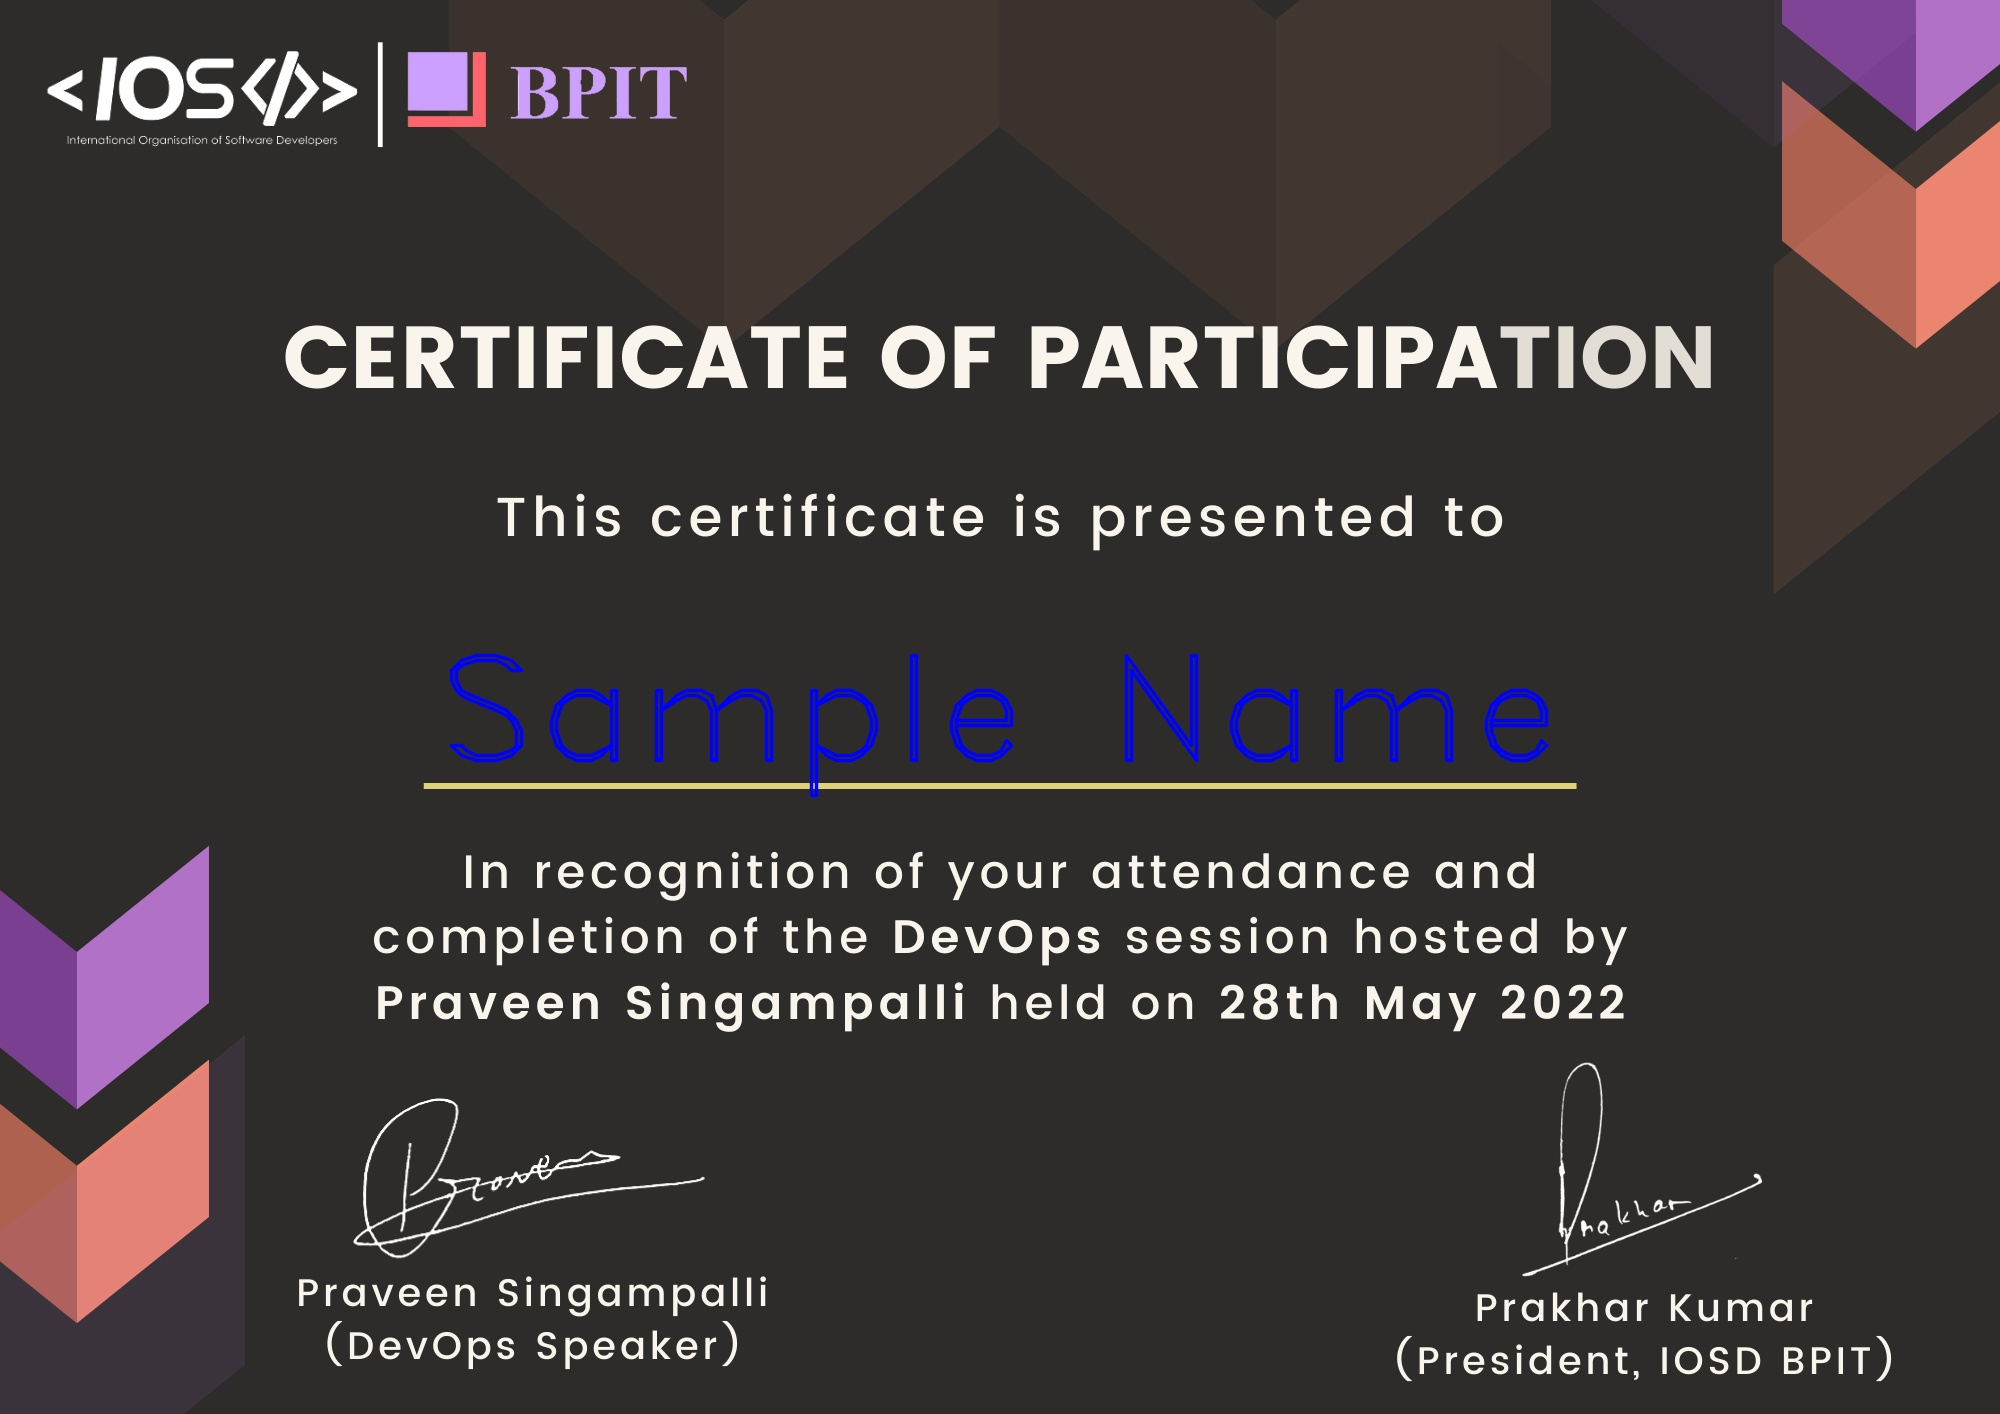
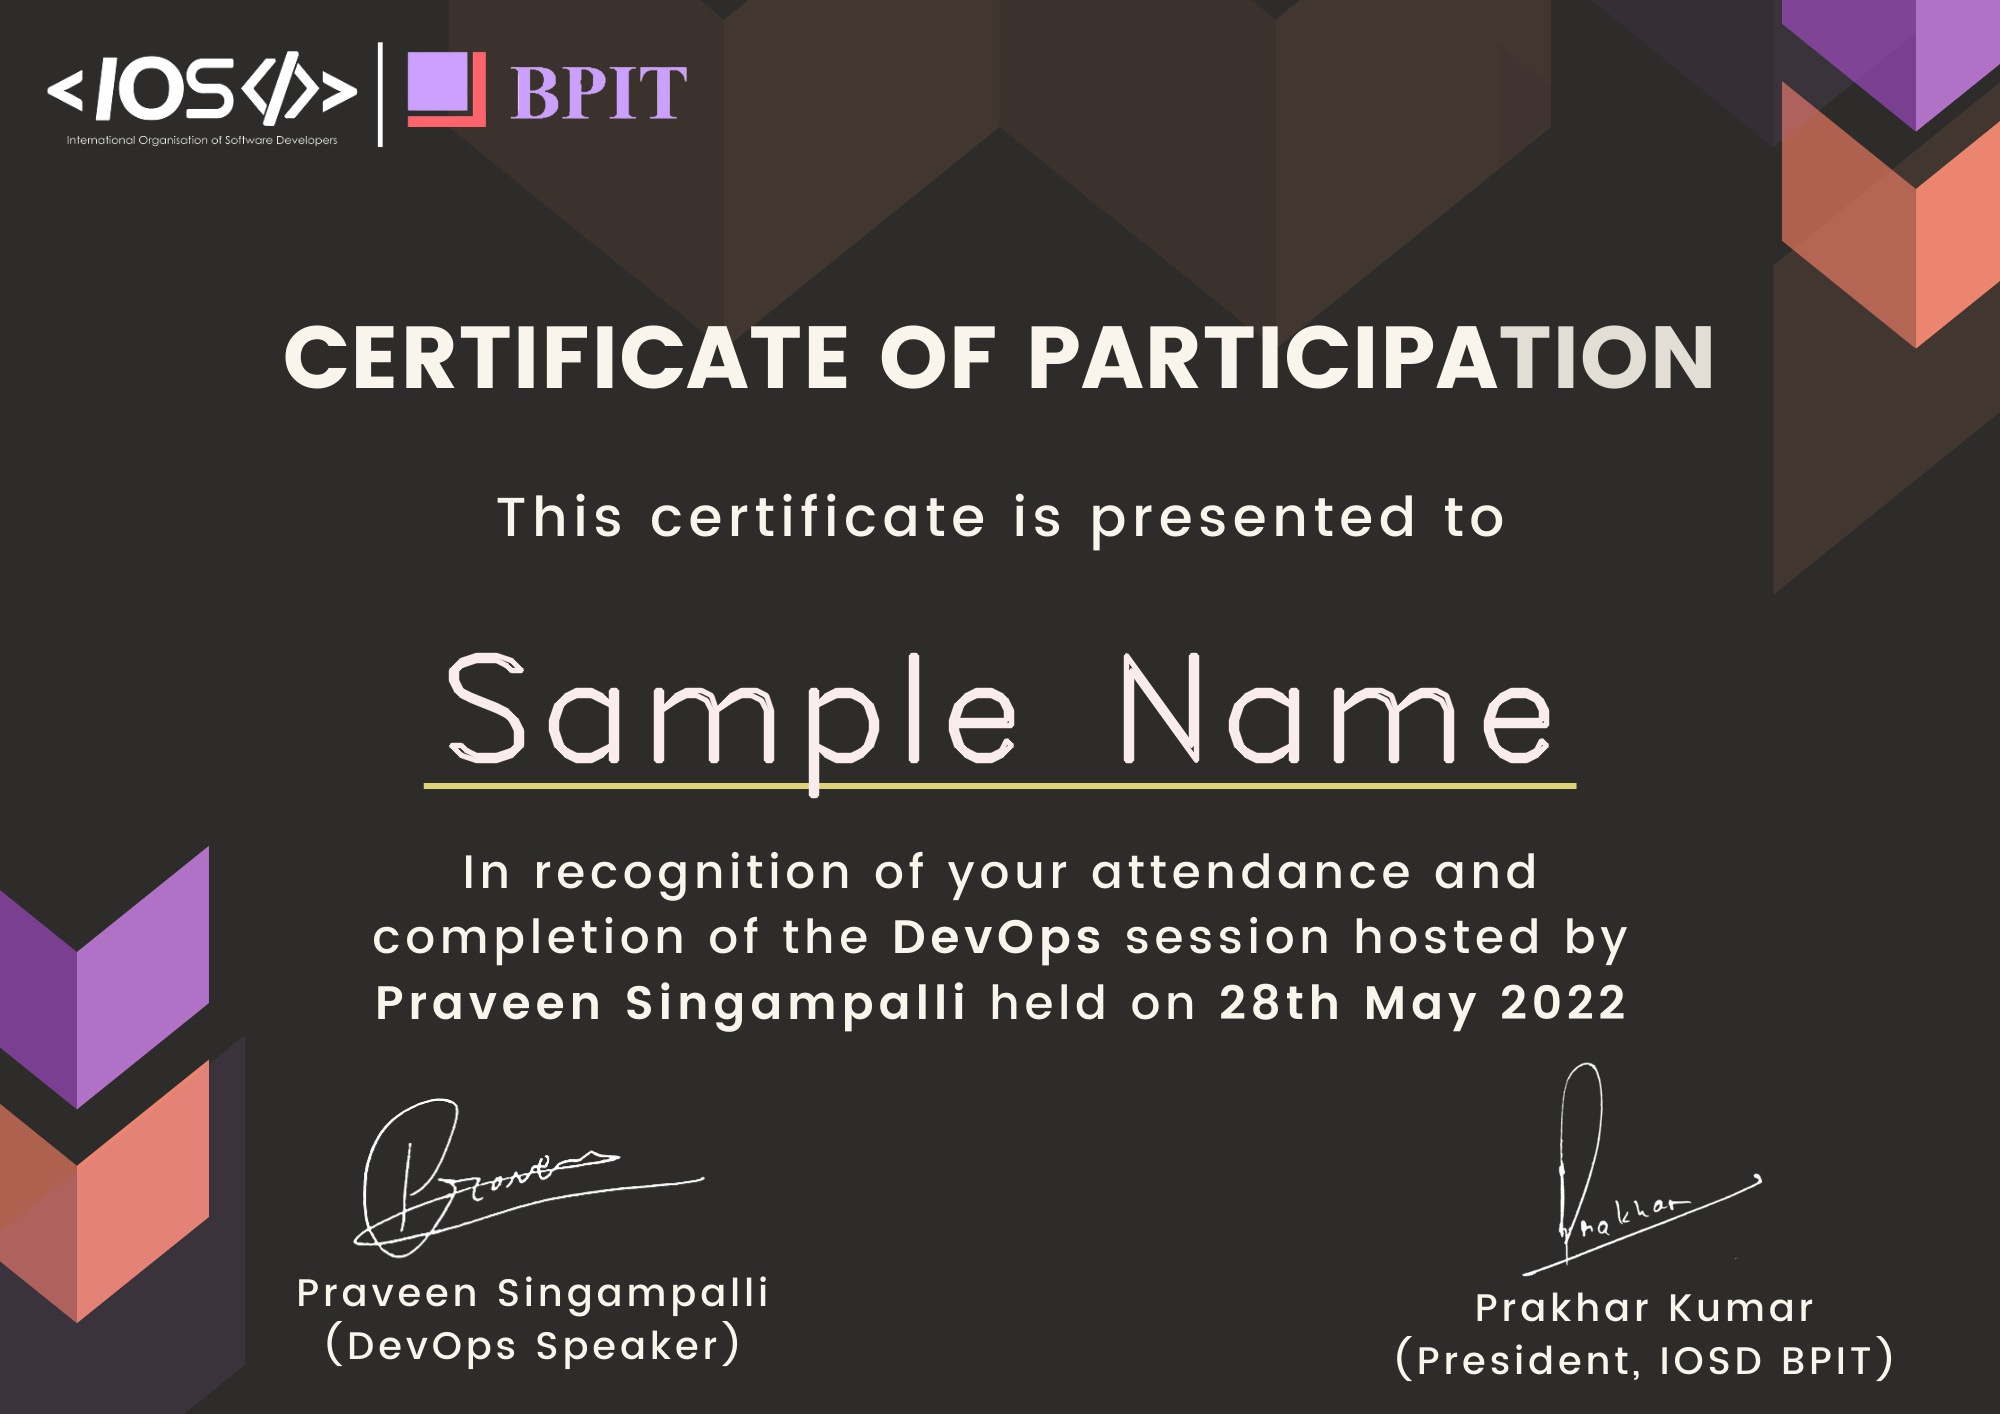
Code Refactoring

Changed region(s): [[0.217, 0.4668, 0.527, 0.5601], [0.558, 0.4668, 0.775, 0.5601], [0.217, 0.529, 0.248, 0.5601]]

diff --git a/algorithm.py b/algorithm.py
@@ -5,6 +5,9 @@ import cv2
 image = cv2.imread("Prototype.png");
 
 #### Describing Parameters
+# Text to be printed on the certificate
+text = "Sample Name"
+
 # Font
 font = cv2.FONT_HERSHEY_DUPLEX
 
@@ -12,13 +15,18 @@ font = cv2.FONT_HERSHEY_DUPLEX
 fontScale = 5
 
 # Color in RGB
-color = (255, 0, 0)
+'''
+Note:
+Color format in OpenCV is BRG and not RGB
+When you add a custom color... Please take care of this thing
+'''
+color = (236, 235, 250)
   
 # Thichness of the Text
-thickness = 2
+thickness = 3
    
 # Getting the text size
-textsize = cv2.getTextSize("Sample Name", font, fontScale, thickness)[0]
+textsize = cv2.getTextSize(text.capitalize()  , font, fontScale, thickness)[0]
 
 # Setting the coordinates 
 '''
@@ -37,7 +45,7 @@ textX = round((image.shape[1] - textsize[0]) / 2)
 textY = round((image.shape[0] + textsize[1]) / 2)
 
 # Finally putting the text on the center of the image.
-image = cv2.putText(image, 'Sample Name', (textX , textY), font, fontScale, color, thickness, cv2.LINE_AA)
+image = cv2.putText(image, text.capitalize() , (textX , textY), font, fontScale, color, thickness, cv2.LINE_AA)
 
 # Saving this as a new image
 cv2.imwrite("Testing.jpg", image)
